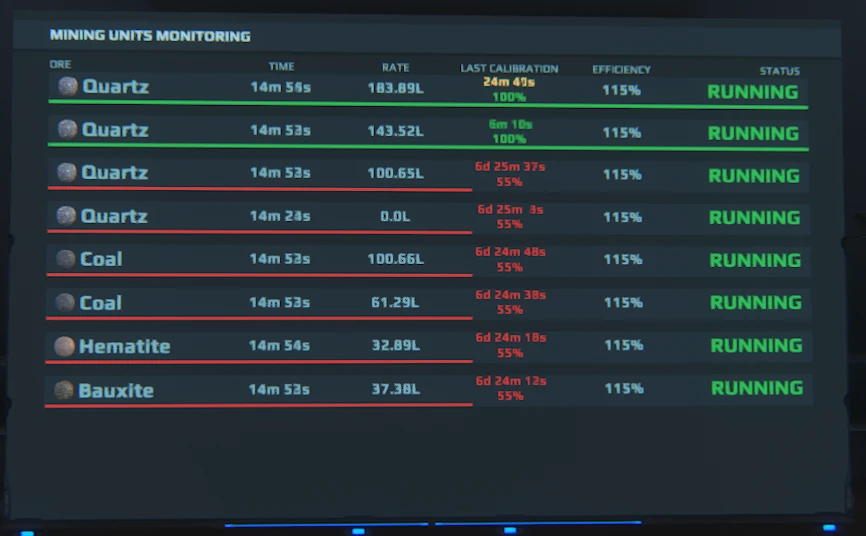
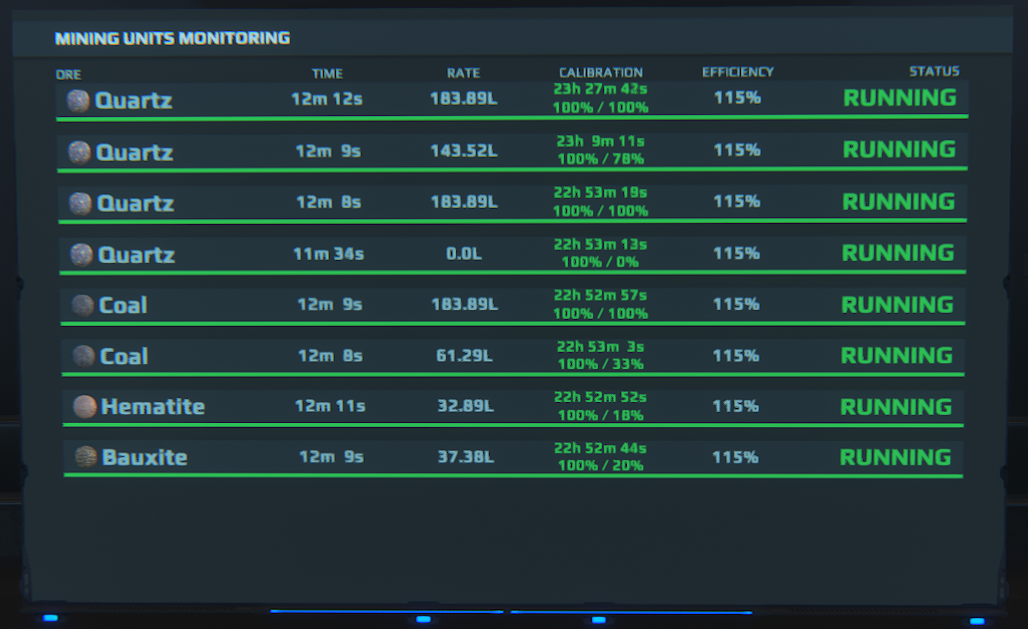
v1.3.0 - optimal calibration integration

diff --git a/README.md b/README.md
@@ -34,7 +34,5 @@ Mining units will be displayed in the order they are linked to the board
 By rightclicking on the board, advanced, edit lua parameters, you can customize these options:
 
 - `fontSize`: the size of the text for each line on the screen
-- `calibrationRedLevel`: The percent calibration below gauge will be red
-- `calibrationYellowLevel`: The percent calibration below gauge will be red
 - `calibrationSecondsRedLevel`: The time in seconds from last calibration above the time will be displayed in red. Default to 259200 (3 days / 72h)
 - `calibrationSecondsYellowLevel`: The time in seconds from last calibration above the time will be displayed in yellow. Default to 86400 (1 day / 24h)
